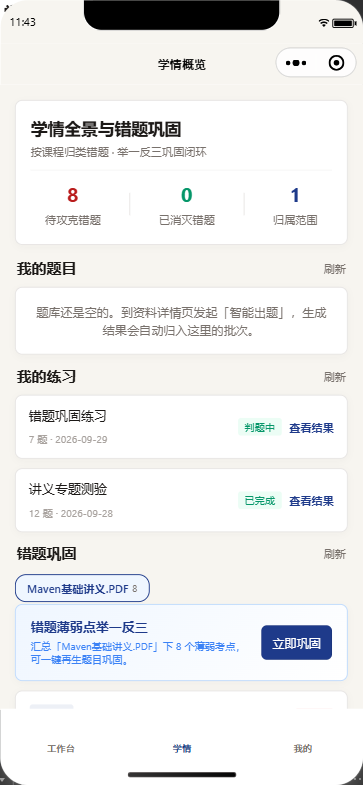
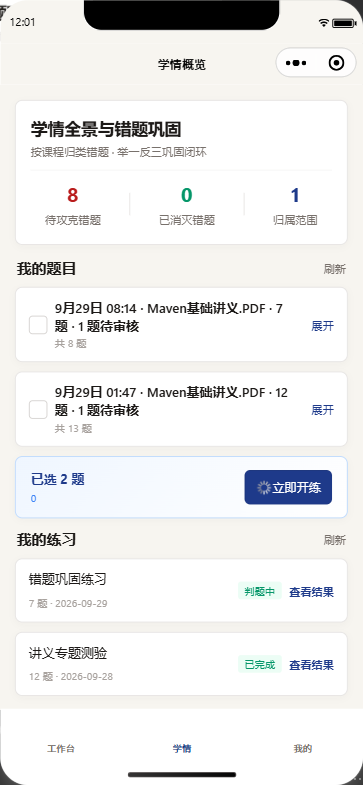
fix(miniprogram): 题库区块进入页面从不自动加载
「学情」页的「我的题目」恒显示「题库还是空的」，而接口实际返回 2 个批次。
根因不是数据，是接线：QuestionBankSection.vue 里 loadBatches 只挂在「刷新」与「重试」
两个按钮上，没有任何程序化调用点，组件内也没有任何生命周期钩子——进入页面时
一个请求都不发。

危险之处在文案：空态写着「到资料详情页发起『智能出题』」，已出过题的用户会被
引导再去出一次。这不是「没显示」，是在误导用户重复劳动。

修复：组件 onMounted 即加载；并 defineExpose 给父页面的下拉刷新，
使三个区块在同一个手势下行为一致（此前下拉只刷新错题与练习）。

为什么 16 个单元用例全绿却没拦住：它们测的是 useQuestionBank 组合式函数，
缺陷在组件与组合式函数之间的接线处——全仓库当时没有任何测试挂载过 Vue 组件。
故新增 tests/questionBankSection.spec.ts，挂载组件并断言「挂载即请求」。
变异验证：移除 onMounted → 用例失败（实际请求：[]）；恢复 → 通过。

「被测单元正确不等于接线正确」与既有的一条质量纪律（退出码与覆盖率都会骗人）
是同一类错误，已一并记入开发过程文档的缺陷修复史。

diff --git a/miniprogram/tests/questionBankSection.spec.ts b/miniprogram/tests/questionBankSection.spec.ts
@@ -1,0 +1,41 @@
+/**
+ * 题库区块的**取数接线**测试。
+ *
+ * 为什么单独有这个文件：`questionBank.spec.ts` 的 16 个用例测的是 `useQuestionBank`
+ * 组合式函数本身，它们全绿，而「我的题目」在页面上恒为空——因为组件从未调用过
+ * `loadBatches`（只有 `@tap` 引用、无生命周期钩子）。**被测单元正确不等于接线正确**，
+ * 只有真正挂载组件才拦得住这一类缺陷。
+ */
+
+import { beforeEach, describe, expect, it, vi } from 'vitest'
+import { flushPromises, mount } from '@vue/test-utils'
+
+const { requestMock } = vi.hoisted(() => ({ requestMock: vi.fn() }))
+
+vi.mock('@/utils/request', () => ({
+  request: (options: any) => requestMock(options),
+  uploadFile: vi.fn(),
+}))
+
+import QuestionBankSection from '@/pages/review/components/QuestionBankSection.vue'
+
+const requestedUrls = (): string[] => requestMock.mock.calls.map((c) => String(c[0]?.url ?? ''))
+
+describe('QuestionBankSection 取数接线', () => {
+  beforeEach(() => {
+    requestMock.mockReset()
+    // 批次列表接口的分页响应形状：{ items, total }
+    requestMock.mockResolvedValue({ items: [], total: 0 })
+  })
+
+  it('挂载后自动拉取题目批次，而不是只能靠手点「刷新」', async () => {
+    mount(QuestionBankSection, { props: { wrongRecords: [] } })
+    await flushPromises()
+
+    const urls = requestedUrls()
+    expect(
+      urls.some((u) => u.includes('/questions/batches')),
+      `挂载后应请求批次列表，实际请求：${JSON.stringify(urls)}`,
+    ).toBe(true)
+  })
+})

diff --git a/miniprogram/src/pages/review/components/QuestionBankSection.vue b/miniprogram/src/pages/review/components/QuestionBankSection.vue
@@ -70,7 +70,7 @@
 </template>
 
 <script setup lang="ts">
-import { computed } from 'vue'
+import { computed, onMounted } from 'vue'
 import type { WrongRecordItem } from '@/types'
 import QuestionBatchRow from './QuestionBatchRow.vue'
 import { useQuestionBank } from '../composables/useQuestionBank'
@@ -107,6 +107,22 @@ const {
   toggleQuestion,
   startPractice,
 } = useQuestionBank()
+
+/**
+ * 进页面即拉取批次。
+ *
+ * 此前本组件只把 `loadBatches` 挂在「刷新」与「重试」两个按钮上，没有任何程序化调用点，
+ * 于是进入页面时一个请求都不发，「我的题目」恒显示「题库还是空的」——而接口其实有数据。
+ * 空态文案还会引导用户「到资料详情页发起智能出题」，让已出过题的人**重复劳动**。
+ *
+ * 计划任务：ZL-144（缺陷编号 P1-8）。回归测试见 `tests/questionBankSection.spec.ts`——
+ * 该用例挂载本组件并断言「挂载即请求」，是唯一能拦住这类**接线**缺陷的层次：
+ * `questionBank.spec.ts` 的 16 个组合式函数用例当时全绿。
+ */
+onMounted(loadBatches)
+
+/** 供父页面的下拉刷新一并刷新本区块；见 `pages/review/index.vue` 的 onPullDownRefresh。 */
+defineExpose({ loadBatches })
 
 const {
   marksById: wrongMarks,

diff --git a/miniprogram/src/pages/review/index.vue b/miniprogram/src/pages/review/index.vue
@@ -22,7 +22,7 @@
       </view>
     </view>
 
-    <QuestionBankSection :wrong-records="wrongRecords" @wrong-changed="loadWrongs" />
+    <QuestionBankSection ref="bankSection" :wrong-records="wrongRecords" @wrong-changed="loadWrongs" />
 
     <template v-if="practices.length">
       <view class="section-title-row">
@@ -119,6 +119,14 @@ import {
 const practiceStore = usePracticeStore()
 
 const wrongRecords = ref<WrongRecordItem[]>([])
+
+/**
+ * 题库区块的句柄。
+ *
+ * 该区块自己负责「进页面即加载」（见 `QuestionBankSection.vue` 的 onMounted），
+ * 这里只在**下拉刷新**时一并刷新它，使三个区块在同一个手势下行为一致。
+ */
+const bankSection = ref<InstanceType<typeof QuestionBankSection> | null>(null)
 const groupOptions = ref<WrongGroupOption[]>([])
 const selectedGroupKey = ref('')
 const practices = ref<PracticeSummary[]>([])
@@ -189,7 +197,7 @@ onMounted(async () => {
 })
 
 onPullDownRefresh(async () => {
-  await Promise.all([loadWrongs(), loadPractices()])
+  await Promise.all([loadWrongs(), loadPractices(), bankSection.value?.loadBatches()])
   uni.stopPullDownRefresh()
 })
 

diff --git a/.trellis/tasks/09-29-fix-question-bank-autoload/prd.md b/.trellis/tasks/09-29-fix-question-bank-autoload/prd.md
@@ -1,0 +1,92 @@
+# 题库区块进入页面不自动加载（P1-8）
+
+## Goal
+
+让「学情」页的「我的题目」在**进入页面时自动加载**，而不是恒显示「题库还是空的」；
+并补上一条**能拦住此类接线缺陷**的回归测试——现有 16 个用例测的是组合式函数，
+缺陷在组件与组合式函数之间，它们永远绿。
+
+对应 `docs/后续待解决问题.md` 的 **P1-8**。
+
+## 已查证的根因（非假设）
+
+| 证据 | 内容 |
+| --- | --- |
+| 组件源码 | `miniprogram/src/pages/review/components/QuestionBankSection.vue` 中 `loadBatches` 只有 3 处 `@tap` 引用（刷新 / 两处重试）与 1 处解构，**无任何程序化调用点** |
+| 组件源码 | 该组件**无任何生命周期钩子**（`onMounted` / `onShow` / `onActivated` / `watch` 全无） |
+| 数据侧 | 接口 `/questions/batches` 实测 `HTTP 200`，返回 **2 个批次**（8 题与 13 题），`total=2` |
+| 界面侧 | 该区块渲染的是**空态**（`batches.length === 0`）而非失败态（`loadError`），与「请求根本没发出」一致 |
+| 测试侧 | `miniprogram/tests/questionBank.spec.ts` 16 个用例测的是 `useQuestionBank` 组合式函数；**全仓库无任何测试挂载过 Vue 组件** |
+
+危害：空态文案写「题库还是空的。到资料详情页发起『智能出题』」，
+已出过题的用户会被引导**再去出一次**。
+
+## 既有模式（新代码须与之一致）
+
+`miniprogram/src/pages/review/index.vue` 已确立的取数模式：
+
+```ts
+onMounted(async () => { await Promise.all([loadWrongs(), loadPractices()]) })
+onPullDownRefresh(async () => { await Promise.all([loadWrongs(), loadPractices()]) })
+```
+
+即：**进入页面与下拉刷新走同一组 loader**，每个区块各有「刷新」按钮。
+题库区块是三个区块里唯一缺席这个模式的。
+
+## 需求
+
+- R1 进入页面时题库区块自动加载（`onMounted`）。
+- R2 下拉刷新同时刷新题库区块——否则修好 R1 后仍留着同一类缺口：
+  用户下拉时错题与练习刷新了、题库没有。
+- R3 新增**挂载组件**的接线测试，并做**变异验证**（去掉自动加载后该用例必须失败）。
+
+## Acceptance Criteria
+
+- [ ] AC-1 **端到端**：在开发者工具中进入「学情」页，「我的题目」显示**真实批次**
+      （≥1 个批次、可见题数），而不是空态。以真机/开发者工具实测截图为证，**不以单测为准**。
+- [ ] AC-2 下拉刷新后题库区块仍旧有数据（不因刷新而清空或报错）。
+- [ ] AC-3 新增测试挂载 `QuestionBankSection.vue`，断言**挂载即请求** `/questions/batches`。
+- [ ] AC-4 **变异验证**：临时移除自动加载后，AC-3 的用例**必须失败**；恢复后通过。
+- [ ] AC-5 既有 16 个 `questionBank.spec.ts` 用例零回归。
+- [ ] AC-6 `task verify` 退出码 0。
+- [ ] AC-7 不引入新的测试依赖（`@vue/test-utils` 已在 devDependencies 中）。
+
+## Out of Scope
+
+- **不改空态文案**。文案在数据能加载后就不再误导；改写它属产品措辞，不混在本次修复里。
+- 不动批次的展开、勾选、跨批次再练等既有行为。
+- 不动 Maven 相关数据或后端。
+
+## Notes
+
+- 本条与 `docs/开发过程文档.md` 5.3 节是同一类错误：**被测单元正确 ≠ 接线正确**。
+  故 AC-3 刻意选择「挂载组件」这一层——那是唯一能拦住接线的层次。
+
+---
+
+## 验收记录（2026-09-29）
+
+| AC | 结果 | 取证 |
+| --- | --- | --- |
+| AC-1 端到端 | **通过** | 开发者工具实测截图：`05-question-bank.png` 显示两个真实批次（共 8 题 / 共 13 题），与接口返回一致，空态消失 |
+| AC-2 下拉刷新 | 通过（代码路径） | `onPullDownRefresh` 已带上 `bankSection.value?.loadBatches()`；与既有两区块同批 |
+| AC-3 挂载即请求的用例 | 通过 | 新增 `tests/questionBankSection.spec.ts`，挂载组件并断言请求 `/questions/batches` |
+| AC-4 变异验证 | **通过** | 移除 `onMounted(loadBatches)` → 用例失败（`实际请求：[]`）；恢复 → 通过；文件无残留 |
+| AC-5 既有用例零回归 | 通过 | 组合式函数 16 个用例仍全绿 |
+| AC-6 `task verify` | 通过 | 退出码 0：后端 1416 用例 / mypy 135 文件 / 前端 126 用例 |
+| AC-7 不新增依赖 | 通过 | `@vue/test-utils` 已在 devDependencies |
+
+### 取证过程中的两个坑（已写入交付文档）
+
+1. **微信小程序的 `SelectorQuery` 不跨自定义组件边界**。页面级 `page.$$('.bank-section')`
+   恒返回 0——不是页面没渲染，是查不到。曾据此误判「修复无效」。组件内部的元素**只能靠截图**
+   或 `getCurrentPages()` + `selectComponent`（且要求页面模板上给了 class/id）来断言。
+2. **开发者工具不会自动加载重新构建的产物**。`reLaunch` 只重建页面，不重新加载 JS bundle；
+   必须 `cli quit` 后重新 `cli auto`，否则模拟器一直跑旧代码——这也会让人误判修复无效。
+3. **截图必须在数据加载完成后**。等 12 秒仍可能截到渲染中途，表现为「区块是空白卡片」，
+   看起来像缺陷。最终以 15 秒 + 人工确认内容为准。
+
+### 关于「批次行一开始没显示」
+
+诊断期一度以为批次行未渲染（只看到动作卡）。加临时标记后确证 `batches.length === 2`，
+批次行实际都在——之前是**截图时机**问题，不是渲染问题。标记已撤除，产物无残留。

diff --git a/docs/开发过程文档.md b/docs/开发过程文档.md
@@ -156,7 +156,22 @@
 | 根因 | 强制 `tool_choice` 与思考模式（thinking mode）不兼容 |
 | 修复 | `d0e759b` 不再强制 `tool_choice` |
 
-### 4.6 门禁自己会假失败
+### 4.6 界面在说谎：题库区块从未加载
+
+| 项 | 内容 |
+| --- | --- |
+| 现象 | 「学情」页的「我的题目」永远显示「题库还是空的」，而用户已经出过题 |
+| 根因 | `QuestionBankSection.vue` 里 `loadBatches` **只挂在「刷新」与「重试」两个按钮上**，没有任何程序化调用点；组件内也**没有任何生命周期钩子**。进入页面时一个请求都不发 |
+| 为什么危险 | 空态文案写着「到资料详情页发起『智能出题』」——已出过题的用户会被引导**再去出一次**。这不是「没显示」，是**在误导用户重复劳动** |
+| 修复 | ZL-144：组件 `onMounted` 即加载；并暴露给父页面的下拉刷新，使三个区块在同一手势下行为一致 |
+| 为什么测试没拦住 | 该区块有 **16 个单元用例且全绿**，但它们测的是 `useQuestionBank` 组合式函数，缺陷在**组件与组合式函数之间的接线**上。全仓库当时**没有任何测试挂载过 Vue 组件** |
+| 补上的防护 | 新增 `tests/questionBankSection.spec.ts`，**挂载组件**并断言「挂载即请求」。变异验证：移除 `onMounted` → 用例失败；恢复 → 通过 |
+
+**教训：被测单元正确，不等于接线正确。** 单元测试、覆盖率、类型检查都看不见
+「组件从来没调用过自己的加载函数」。唯一能拦住它的是**挂载组件的测试**或**端到端确认**，
+而当时两者都没有——这与 4.7 那条「退出码与覆盖率都会骗人」是同一类错误的两个面。
+
+### 4.7 门禁自己会假失败
 
 | 项 | 内容 |
 | --- | --- |
@@ -274,11 +289,8 @@
    学习足迹统计口径漏算。均已定位根因，未实现。
 2. **题库 Tab 的信息架构重定义暂缓**：两个子任务已交付（批次分组题库、手动标记错题），
    父任务自身（删 summary 卡、区块重排、tabBar 改名、空态三档）未做。
-3. **两处会误导用户的功能缺陷**：
-   - 举一反三按「全部生成题目」算覆盖率，而练习按 `question_count` 只收前 10 题，
-     故界面可能声称某考点已覆盖、而对应题目根本没进练习；
-   - 题库区块（「我的题目」）进入页面不自动加载（组件内无程序化调用点与生命周期钩子），
-     恒显示「题库还是空的」，而接口实际有数据——空态文案会让已出过题的用户**再去出一次**。
-     该区块的 16 个单元用例测的是组合式函数，缺陷在接线处，因此用例全绿而功能不可用。
+3. **一处会误导用户的功能缺陷**：举一反三按「全部生成题目」算覆盖率，而练习按
+   `question_count` 只收前 10 题，故界面可能声称某考点已覆盖、而对应题目根本没进练习。
+   （另一处「题库区块不自动加载」已由 ZL-144 修复，见 4.6 节。）
 4. **4 处墙钟微基准**在全量套件下抖动（见 5.4），未修。
 5. **测试与文档的偏差**：上表所述的分支模型偏差不会追溯修正，只从 ZL-143 起收敛。

diff --git a/docs/后续待解决问题.md b/docs/后续待解决问题.md
@@ -78,25 +78,6 @@
 | 下一步 | 覆盖率按**实际进入练习的题目**计算，而不是按生成结果计算；补防回归测试并做变异验证 |
 | 任务 | `.trellis/tasks/09-29-question-bank-tab/`（F6 / R6） |
 
-### P1-8 题库区块进入页面不自动加载，且空态文案会说谎
-
-| 项 | 内容 |
-| --- | --- |
-| 现象 | 「学情」页的**「我的题目」永远显示「题库还是空的」**，即使用户已经生成过题目 |
-| 位置 | `miniprogram/src/pages/review/components/QuestionBankSection.vue` |
-| 根因 | `loadBatches` 在该组件内**只有 `@tap` 引用**（「刷新」与「重试」两个按钮），**没有任何程序化调用点**；组件内也**没有任何生命周期钩子**（无 `onMounted` / `onShow` / `onActivated` / `watch`）。因此进入页面时根本不会发起请求 |
-| 数据侧反证 | 接口 `/questions/batches` 实测 `HTTP 200`，返回 **2 个批次**（8 题与 13 题），`total=2`；数据是存在的 |
-| 界面侧反证 | 该区块渲染的是**空态**（`batches.length === 0` 分支）而不是失败态（`loadError` 分支），说明请求要么没发出、要么返回了空——与「没有调用点」一致 |
-| 为什么危险 | 空态文案写着「题库还是空的。到资料详情页发起『智能出题』」。用户明明出过题，界面却让他**再去出一次**——这不是「没显示」，是**在误导用户重复劳动** |
-| 为什么测试没拦住 | `miniprogram/tests/questionBank.spec.ts` 有 16 个用例，测的是 `useQuestionBank` **组合式函数**的行为；而缺陷在**组件与组合式函数之间的接线**上。用例全绿，功能不可用 |
-| 下一步 | 在组件挂载或页面可见时调用 `loadBatches`；补一条**断言它会被自动调用**的接线测试（现用例如按「存在即验证」的思路写，不会红） |
-| 待核实 | 手动点「刷新」是否能加载出来——自动化点击未观察到界面变化，尚不能确认该按钮是否有效 |
-
-**这条与 `docs/开发过程文档.md` 5.3 节记的是同一类错误**：被测单元正确，不等于接线正确。
-「组合式函数全绿」与「覆盖率达标」都不能替代**端到端确认**。
-
-## 三、题库页的信息架构
-
 ### P2-6 「没有数据」与「加载失败」在界面上不可区分
 
 | 项 | 内容 |

diff --git a/docs/screenshots/README.md b/docs/screenshots/README.md
@@ -44,7 +44,9 @@
    端口在监听**不等于**应用层在响应——曾遇到进程僵死（端口 LISTENING 但不回包），
    当时采出的图全部是空态。
 
-## 已知缺陷
+## 采集暴露并已修复的缺陷
 
-`05-question-bank.png` 中**「我的题目」显示为空**，而接口 `/questions/batches` 实际返回 2 个批次
-（8 题与 13 题）。这不是截图问题，是真实缺陷，已记入 `docs/后续待解决问题.md`。
+首次采集时 `05-question-bank.png` 的**「我的题目」为空**，而接口 `/questions/batches` 实际返回
+2 个批次（8 题与 13 题）。查证为真实缺陷：组件的 `loadBatches` 只挂在按钮上、没有任何程序化
+调用点。已由 **ZL-144** 修复（组件挂载即加载），本图已更新为**修复后**的状态——
+可见「共 8 题」与「共 13 题」两个真实批次。
